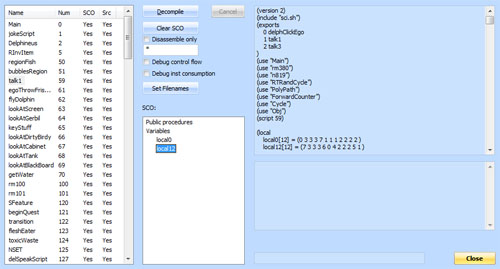
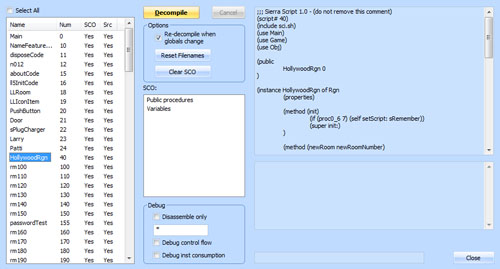
- decompiler: updates to docs

diff --git a/SCICompanion/Docs/source/decompiler.rst b/SCICompanion/Docs/source/decompiler.rst
@@ -100,9 +100,12 @@ files for each of them.
 Script filenames
 ----------------
 
-The first thing you should do when decompiling a game is to generate good filenames for the original script files.
-This can be done with the *Set Filenames* button, which will analyze the script resources and try to generate
-a filename based on the contents of the script.
+The first thing that needs to be done before decompiling a game is to generate good filenames for the original script files. These names
+will be referenced from other scripts, so it's important that they be correct before decompiling any files. |scicomp| does this by 
+analyzing the script resources and trying to generate a filename based on the contents of the script.
+|scicomp| will handle this
+automatically for you when you start decompiling if it finds no script names in the game.ini file - that is, if you haven't explicitly given any names to scripts
+in the Game Explorer. If you want to be sure, you can click the *Reset Filenames* button.
 
 You can rename a script by clicking on it in the script list and pressing F2 (you can also do this from the
 scripts tab in the game explorer).
@@ -110,15 +113,15 @@ scripts tab in the game explorer).
 Decompiling a script
 --------------------
 
-You can select one or more scripts on the left (using shift-click), and then press the *Decompile* button. Decompiling a script is complex and can be a fairly
-lengthy process, so if you're only curious about a few scripts, then just select those. As the decompilation takes place, status updates
-are given in the pane on the right.
+You can select one or more scripts on the left (using shift-click), and then press the *Decompile* button.
+Selecting no scripts will offer the option of decompiling all. So in most cases, you can just open the Decompile dialog and click *Decompile* and be done.
 
-If you want to decompile the entire game of course, then just select all scripts, click *Decompile* and sit back. Decompiling a typical
-entire Sierra game should take about a minute or so.
+Decompiling a script is complex and can be a fairly
+lengthy process depending on the speed of your computer, so if you're only curious about a few scripts, then just select those. As the decompilation takes place, status updates
+are given in the pane on the right. Decompiling a typical entire Sierra game should take about a minute or so.
 
 When a script is decompiled, we also generate the .sco file for it. This contains the "public" information in the script (such as the names of
-procedures that it exports) which is used by other scripts. You'll need these .sco files if you want to then go in and make changes to the scripts
+procedures that it exports) which is used by other scripts. You'll need these .sco files if you want to then go in and make changes to the scripts (e.g. for a mod or bug fix to an original game)
 and successfully recompile.
 
 Public procedure names and variable names
@@ -132,8 +135,8 @@ make them more meaningful, and then any script that references that script will 
 When |scicomp| encounters other scripts using a global variable (from script 0, main.sc) that still has the default name (e.g. global30), it will
 try to give that variable a name based on its usage. That means that as you decompile more scripts, the names of the global variables in main.sc may change (i.e. improve).
 
-So to get a complete decompile, it is recommended to run the decompilation steps a second time on all files so that they pick up any new
-names for global variables (and any names for procedures that you have entered).
+So to get a complete decompile, |scicomp| will automatically re-decompile all files if it detects a change to a global variable name. It may do this two or three times.
+
 
 Accuracy
 ===========
@@ -142,7 +145,113 @@ Decompilation is not a perfect science, and there will be situations where |scic
 In that case, the code for a method or procedure will fall back to disassembly (in an *asm* block). In general, this should only happen for about 2% to at most 5% of the
 total code in a game.
 
-There may still be some bugs in the resultant decompiled code, so if you recompile a script and suddenly the game starts behaving strangely, that is a likely suspect. If
-you encounter this, please send a bug report. If you understand SCI byte code, you can also compare a method's code with its disassembled version (which is much easier to get 100% correct) to see if anything
+Tips
+-------------------------
+
+It is suggested that you back up your game before you start to recompile anything, as you will obviously not be able to re-decompile from the original source once that's done.
+
+If you're just trying to change a small part of a game, it is suggested you just recompile the file you're interested in. Although the decompiler is very good, it is *possible*
+that some of the generated source code is incorrect, and recompiling the entire game increases the chances that something will break in the game. If you recompile a game and it
+stops working properly, please send a bug report.
+
+Errors when you try to recompile the decompiled code can be caused by bugs in Sierra's original code, bugs in the decompiler or bugs in the compiler. If you suspect bugs in the |scicomp| decompiler
+or compiler, please send a bug report. If you understand SCI byte code, you can also compare a method's code with its disassembled version (which is much easier to get 100% correct) to see if anything
 looks wrong. If you check the *Disassembly only* box in the Decompile Dialog, this will force |scicomp| to fallback to assembly for every method or procedure.
 
+Many times errors will be caused by issues with Sierra's original code and there's little the decompiler can do to produce correct source code. Here are some of the problems you might encounter.
+
+**blah is a property, only one parameter may be supplied.**
+
+The code might look like this:
+
+::
+
+    (something cycles: 0 115 0)
+
+Here, 'cycles' is a property that is being set, and so only one value can be supplied. It turns out that 115 was supposed to be a selector, but there was a typo in Sierra's original source
+code that resulted in it being just a number. You can look up the value for the selector in the selector table vocab. In this case, 115 is 'seconds'. So the correct code is:
+
+::
+
+    (something cycles: 0 seconds: 0)
+
+Although it's fine to just remove the '115 0' too, as that would essentially make it behave the same as the original game.
+
+
+**Undeclared identifier '--UNKNOWN-PROP-NAME--'**
+
+This means the decompiler needed a property name, but was not able to find one. This is caused by bugs in Sierra's source code and compiler, and there's no way to know what the
+original intent was. So the best you can do is to just delete the line and move on. Or you might be able to infer was actually meant. One case that appears in many Sierra games is
+in the canBeHere method of Actor:
+
+::
+
+    (and
+        (== illegalBits 0)
+        (& signal --UNKNOWN-PROP-NAME--)
+    )
+
+In this case, we know that what was actually meant was ignoreHorizon, which is a define. So the correct code is:
+
+::
+
+    (and
+        (== illegalBits 0)
+        (& signal ignoreHorizon)
+    )
+
+
+**&rest cannot be used if the send target itself contains nested procedure calls or sends. Assign the result of the procedure call or send to a temporary variable and use that instead**
+
+The code might look like this:
+
+::
+
+    (method (doVerb theVerb)
+        ((ScriptID 270 1) doVerb: theVerb &rest)
+    )
+
+The problem is that the ScriptID kernel call must be evaluated first (before the doVerb method can be called on the result of the ScriptID call). However, the call
+will use up the "rest" of the parameters when they were actually intended for the doVerb call. This actually has no ill effects if no extra parameters are ever passed to
+doVerb. And that was probably the case in the actual game, as it would likely crash if any extra parameters were passed. In this case, there are two ways to fix it. The
+first is to do what the error message suggests:
+
+::
+
+    (method (doVerb theVerb &tmp theTarget)
+        (= theTarget (ScriptID 270 1))
+        (theTarget doVerb: theVerb &rest)
+    )
+
+The other alternative is to just delete the &rest, although that theoretically changes the behavior of the game.
+
+
+**Duplicate case values. Already encountered a case for '2'**
+
+This is just a warning, so you can leave them as is. Or, delete the second duplicate case value. These indicate a switch statement
+with duplicate case values. Only the first case with that value will ever be hit, so there is unreachable code.
+
+**Ignoring public class for export: blahblah**
+
+This is just a warning, and was caused by Sierra include a class in the exports table. You can just ignore it.
+
+Other notes
+------------
+
+You may occasionally notice procedure calls that look like
+
+::
+
+    (kernel_131 blahblahblah)
+
+This indicates that |scicomp| wasn't able to find the name of the kernel function, so it just retained the number (which is how they are invoked in byte code). It will
+call the correct kernel, so no worries.
+
+::
+
+    (__proc0_7)
+
+The word 'proc' preceded by two underscores indicates a call to an export that doesn't exist. The double underscore tells |scicomp|'s compiler to just generate 
+an export call to the specied export (The 7th export in script 0 in the case above). Normally |scicomp| would try a symbol lookup, but that would fail because
+the export doesn't exist. This was commonly used for debug code that was used only during development. The source code still has calls to this code, but
+the actual was removed from the final build.
